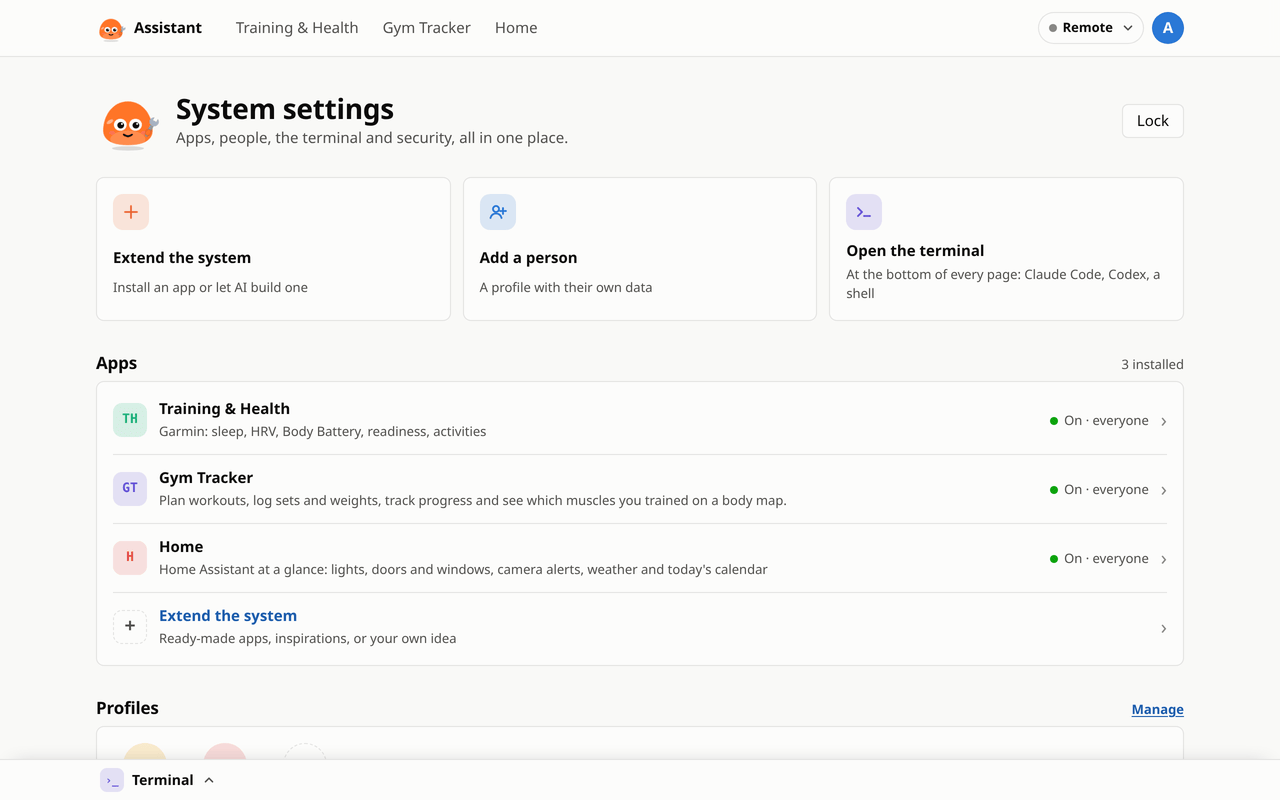
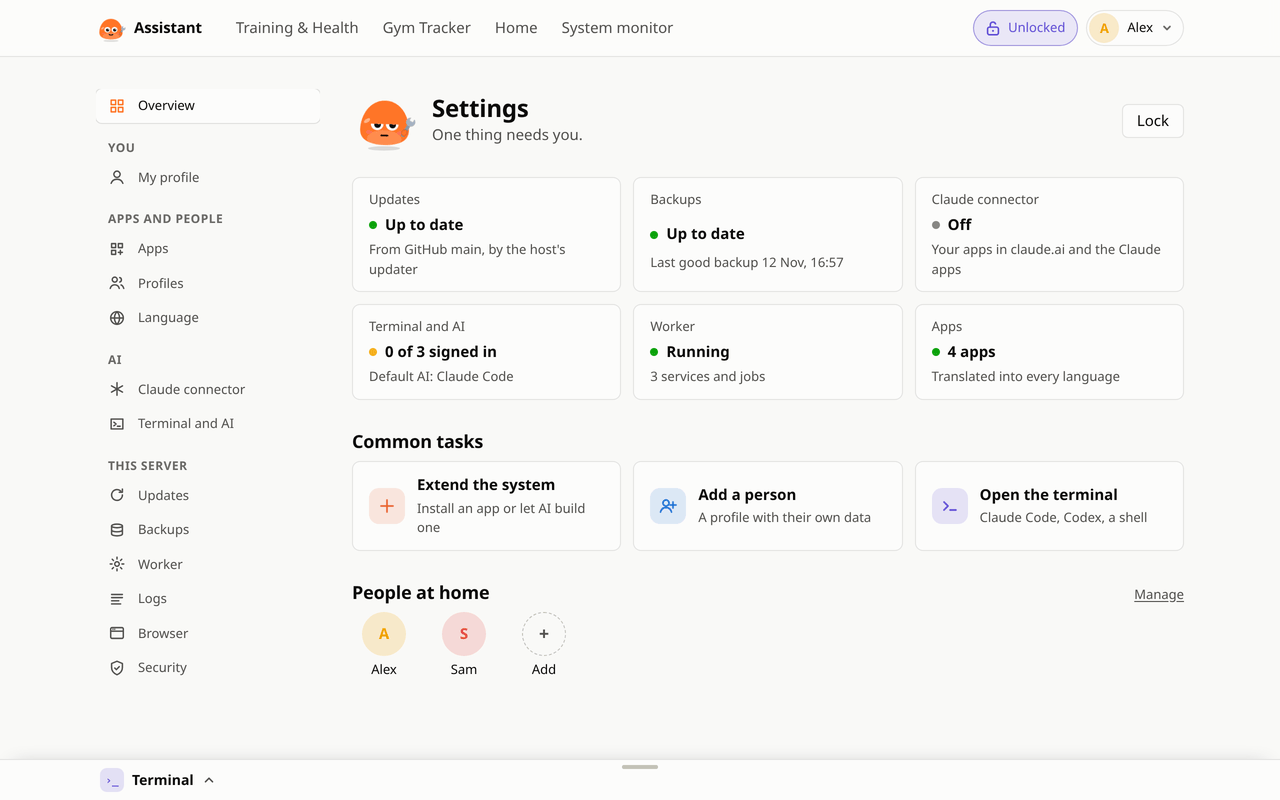
Docs: screenshots and tour after the settings redesign, worker and Terminal and AI wording
New dashboard, Home, System settings and terminal screenshots and a tour that also shows the system
monitor and profile settings. The diagram shows the worker; Terminal and AI instead of Terminal;
installer re-runs only for an extension with its own compose.yml; no more inspirations; ext
profiles and remove listed.

diff --git a/README.md b/README.md
@@ -10,7 +10,7 @@ Runs on Linux or a Synology NAS with Docker Compose. You reach it over your Tail
 
 [Install](#quick-start) · [Screenshots](#screenshots) · [Extensions](https://github.com/b-niamin/assistant-extensions) · [Docs](#docs)
 
-<img src="docs/screenshots/tour.gif" alt="A tour of the app: dashboard, Training &amp; Health, an activity, the gym tracker, Home, System settings and the terminal" width="900" />
+<img src="docs/screenshots/tour.gif" alt="A tour of the app: dashboard, Training &amp; Health, an activity, the gym tracker, Home, the system monitor, System settings, profile settings and the terminal" width="900" />
 
 </div>
 
@@ -56,7 +56,7 @@ Synology steps, installer options and `beni.sh` commands: [docs/install.md](docs
     <td width="50%"><img src="docs/screenshots/home.png" alt="The Home extension: weather, lights, doors and today's calendar" /><p align="center"><b>Home</b>: an extension, Home Assistant data and weather</p></td>
   </tr>
   <tr>
-    <td><img src="docs/screenshots/settings.png" alt="System settings: apps, profiles and the terminal" /><p align="center"><b>System settings</b>: extensions, profiles, updates</p></td>
+    <td><img src="docs/screenshots/settings.png" alt="System settings: a sidebar of sections and an overview of updates, backups, the Claude connector, the terminal, the worker and the apps" /><p align="center"><b>System settings</b>: apps, updates, backups, the worker</p></td>
     <td><img src="docs/screenshots/terminal.png" alt="The terminal docked at the bottom of a page" /><p align="center"><b>Terminal</b>: a shell with Claude Code and Codex</p></td>
   </tr>
 </table>
@@ -72,7 +72,7 @@ flowchart LR
   subgraph box ["NAS or Linux host, Docker Compose"]
     term["terminal<br/>Claude Code, Codex"] -- "MCP" --> web["web<br/>app, extensions, MCP server"]
     web --> db[("Postgres<br/>one schema per extension")]
-    svc["extension services<br/>background jobs"] --> db
+    svc["worker<br/>extension services and jobs"] --> db
   end
 ```
 
@@ -82,7 +82,7 @@ written by Claude in your instance. Details: [architecture spec](specs/000-archi
 
 ## Docs
 
-- [Extensions repo](https://github.com/b-niamin/assistant-extensions): ready-made extensions and inspirations
+- [Extensions repo](https://github.com/b-niamin/assistant-extensions): ready-made extensions
 - [Install and run](docs/install.md): installer, Synology steps, `beni.sh`, development
 - [Architecture](specs/000-architecture.md), [extensions](specs/002-extensions.md), [MCP and the Claude connector](specs/005-claude-tools.md), [security](specs/004-security.md), [all specs](specs)
 - [AGENTS.md](AGENTS.md): rules for people and AI agents working in this repo

diff --git a/specs/001-design.md b/specs/001-design.md
@@ -161,11 +161,11 @@ it opens the app's only terminal (created on first open, kept connected while co
 remembered per browser). A page that wants the terminal while locked (a Sign in button, Build it) opens
 the lock's password prompt first, then runs its command.
 Pages hand it work: `runInDock` runs a command in a new tmux window ("Extend the system", the sign-ins
-in System settings → Terminal), `askAgent` starts the default AI CLI there with a prompt as its first
+in System settings → Terminal and AI), `askAgent` starts the default AI CLI there with a prompt as its first
 message (`claude '<prompt>'` or `codex '<prompt>'`) for "Build it" and "Install". An extension panel's
 "Update" uses `draftForAgent`: `scripts/agent-draft.sh` starts the CLI, waits until it has put the terminal
 in raw mode (plus 1.5 s for its input box), then types `Update extension <name> (extensions/<id>): ` into
-it with `tmux send-keys`, without Enter, for the owner to finish. The default AI is picked in System settings → Terminal
+it with `tmux send-keys`, without Enter, for the owner to finish. The default AI is picked in System settings → Terminal and AI
 (`secrets.app_config` key `default_agent`, served by `GET /dock`); when only the other CLI is signed in,
 that one starts.
 
@@ -178,7 +178,7 @@ The terminal is a dark window in both themes, like a code block in an editor.
   then text size A−/A+ (remembered per device), reconnect and full screen. When the socket is not open
   a veil over the screen says why and offers Reconnect; the page reconnects by itself when a phone
   wakes the tab.
-- Sign-ins live in System settings → Terminal: Claude Code, Codex and GitHub CLI with their state and
+- Sign-ins live in System settings → Terminal and AI: Claude Code, Codex and GitHub CLI with their state and
   a "Sign in" button that runs the command in the dock.
 - Touch key bar (`lib/terminal/keys.ts`) on coarse pointers and narrow windows: Esc, Tab, Shift+Tab,
   sticky Ctrl, ^C, arrows (application cursor mode aware) and a few symbols phone keyboards hide.

diff --git a/docs/install.md b/docs/install.md
@@ -1,6 +1,6 @@
 # Install and run
 
-The details behind the quick install in the [README](../README.md): what the installer asks and does, a
+The details behind the quick install in the [README](../README.md): what the installer does, a
 Synology walkthrough, the everyday `beni.sh` commands, extensions and development.
 
 ## What the installer does
@@ -40,8 +40,8 @@ docker compose exec -it terminal claude                 # /login once (or from t
 docker compose exec -it worker ext-run health garmin-sync python -m sync login   # only with health (password never stored)
 ```
 
-Re-running `./install.sh` is safe: it keeps `.env` and your extensions. Run it again after adding an
-extension that brings a background service.
+Re-running `./install.sh` is safe: it keeps `.env` and your extensions. Extension services and jobs start
+in the `worker` on their own after `ext install`; only an extension with its own `compose.yml` needs a re-run.
 
 ## Step by step on a Synology NAS
 

diff --git a/specs/000-architecture.md b/specs/000-architecture.md
@@ -77,7 +77,7 @@ Ready-made extensions live in [assistant-extensions](https://github.com/b-niamin
 - Image (`docker/terminal`): Node + Claude Code + Codex + gh + git + psql + python3, non-root user (`HOST_UID`).
 - Volumes: the repo checkout (the same files `web` runs), `agent-home` (login state), `/logs`
   read-only. `.env` is shadowed by an empty file.
-- Sign in once from System settings -> Terminal (`claude` + `/login`, `codex login`, `gh auth login`).
+- Sign in once from System settings -> Terminal and AI (`claude` + `/login`, `codex login`, `gh auth login`).
   The CLIs run only in the dock's shell, started by hand or by the app (Update, Build it, Install); nothing
   keeps them running in the background. From outside, Claude uses the Claude connector instead.
 - Data chat: `beni-db` (= `psql "$CLAUDE_RO_DATABASE_URL"`). `claude_ro` has `SELECT` on core and extension schemas,

diff --git a/extensions/README.md b/extensions/README.md
@@ -16,7 +16,9 @@ node scripts/ext.mjs install health gym         # copy them here and turn them o
 node scripts/ext.mjs update health              # take the repo's newer version
 node scripts/ext.mjs list
 node scripts/ext.mjs languages                  # the app's languages and what each app still lacks (spec 007)
-node scripts/ext.mjs new <id> --kind native|onefile --scope profile|shared [--from inspiration:<name>] [--inspired-by <link>]
+node scripts/ext.mjs profiles gym alex,sam      # who sees it (System settings can override)
+node scripts/ext.mjs remove gym                 # the folder moves to extensions/.trash/; data stays
+node scripts/ext.mjs new <id> --kind native|onefile --scope profile|shared [--from onefile:<app>/<variant>] [--inspired-by <link>]
 ```
 
 An extension's background work (manifest `services` / `jobs`, e.g. health's garmin-sync) runs in the

diff --git a/docker/terminal/README.md b/docker/terminal/README.md
@@ -11,7 +11,7 @@ the public MCP connector instead (System settings -> Claude connector, spec 005)
 
 ## Sign-ins
 
-System settings -> Terminal has a Sign in button per tool; it types the command into the dock:
+System settings -> Terminal and AI has a Sign in button per tool; it types the command into the dock:
 
 | Tool | Command |
 |---|---|
